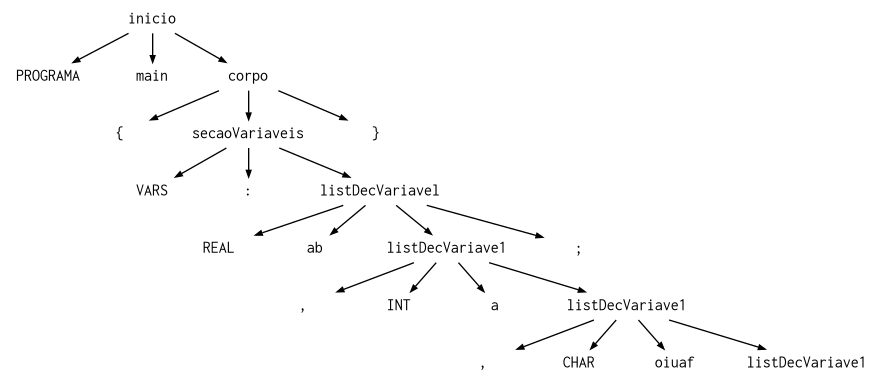
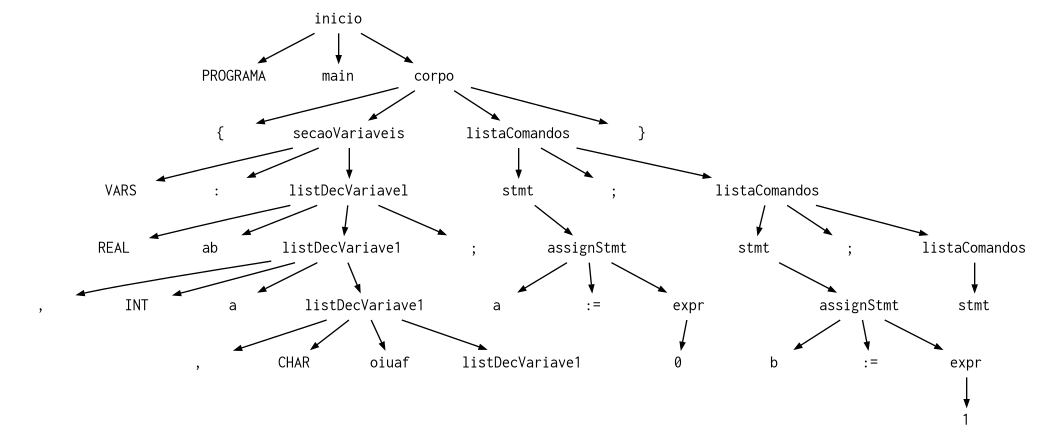
parser funcionando com assingment_stmt

diff --git a/front-end/parser.py b/front-end/parser.py
@@ -42,8 +42,7 @@ class Parser:
 
     def inicio(self):
         """
-        mas ignorando o corpo agora só para testar
-        inicio: PROGRAMA ID ;
+        inicio: PROGRAMA ID corpo;
         """
         node = RuleNode('inicio')
         if self.root is None:
@@ -63,6 +62,9 @@ class Parser:
 
 
     def corpo(self):
+        """
+        corpo:  AbreChave secaoVariaveis listaComandos  FechaChave; 
+        """
         node = RuleNode('corpo')
         if self.root is None:
             self.root = node
@@ -76,10 +78,15 @@ class Parser:
         if token.type == AbreChave:
             self.eat(AbreChave)
             self.secaoVariaveis()
+            self.listaComandos()
             self.eat(FechaChave)
         self.current_node = _save
 
     def secaoVariaveis(self):
+        """
+        secaoVariaveis: VARS Doispontos  listDecVariavel  PVirg;
+        """
+
         node = RuleNode('secaoVariaveis')
         if self.root is None:
             self.root = node
@@ -92,12 +99,6 @@ class Parser:
         token = self.current_token
         self.eat(VARS)
         self.eat(DoisPontos)
-        # while True:
-        #     if self.current_token.type in (INT,REAL,CHAR):
-        #         self.eat(self.current_token.type)
-        #         self.eat(ID)
-        #         if self.current_token.type == PVirg:
-        #             break
         self.listDecVariavel()
         self.eat(PVirg)
         self.current_node = _save
@@ -109,21 +110,14 @@ class Parser:
         else:
             self.current_node.add(node)
             
-        _save = self.current_node
         self.current_node = node
-
 
         token = self.current_token
         if token.type in (INT,REAL,CHAR):
             self.eat(token.type)
             self.eat(ID)
             self.listDecVariavel1()
-        # while True:
-        #     if self.current_token.type in (INT,REAL,CHAR):
-        #         self.eat(self.current_token.type)
-        #         self.eat(ID)
-        #         if self.current_token.type == PVirg:
-        #             break
+
 
     def listDecVariavel1(self):
         node = RuleNode('listDecVariave1')
@@ -144,6 +138,68 @@ class Parser:
         else: 
             self.current_node = _save
 
+    def listaComandos(self):
+        """
+        listaComandos:  stmt | stmt PVirg listaComandos;
+        """
+        node = RuleNode('listaComandos')
+        self.current_node.add(node)
+        _save = self.current_node
+        self.current_node = node
+        self.stmt()        
+        if self.current_token.type == PVirg:
+            self.eat(PVirg)
+            self.listaComandos()
+            self.current_node = _save
+        else: 
+            self.current_node = _save
+
+
+    def stmt(self):
+        """
+        stmt: assign_stmt | //vazio
+        """
+        node = RuleNode('stmt')
+        self.current_node.add(node)
+        _save = self.current_node
+        self.current_node = node 
+
+        if self.current_token.type in (ID,FACA,SE,ENQUANTO):
+            token = self.current_token
+            if token.type == ID:
+                self.assign_stmt()
+                self.current_node = _save
+
+        else: 
+            self.current_node = _save
+
+    
+    def assign_stmt(self):
+        """
+        assign_stmt: ID OpAtrib expr
+        """
+
+        node = RuleNode('assignStmt')
+        self.current_node.add(node)
+        _save = self.current_node
+        self.current_node = node
+
+        self.eat(ID)
+        self.eat(opAtribuicao)
+        self.expr()
+        self.current_node = _save
+
+    
+    def expr(self):
+        """
+        expr: ConstInt
+        """
+        node = RuleNode('expr')
+        self.current_node.add(node)
+        _save = self.current_node
+        self.current_node = node
+        self.eat(ConstInt)
+        self.current_node = node
 
 
     def parse(self):

diff --git a/front-end/tokens.py b/front-end/tokens.py
@@ -1,4 +1,4 @@
-VARS, DoisPontos,PROGRAMA, SE, ENTAO, SENAO, ENQUANTO, FACA, INT, REAL, CHAR, OR, AND, NOT,ID, PVirg, AbreChave, EOF, FechaChave, VIRG= (
+VARS, DoisPontos,PROGRAMA, SE, ENTAO, SENAO, ENQUANTO, FACA, INT, REAL, CHAR, OR, AND, NOT,ID, PVirg, AbreChave, EOF, FechaChave, VIRG, opAtribuicao, ConstInt= (
     'VARS',
     'DoisPontos',
     'PROGRAMA',
@@ -18,5 +18,7 @@ VARS, DoisPontos,PROGRAMA, SE, ENTAO, SENAO, ENQUANTO, FACA, INT, REAL, CHAR, OR
     'AbreChave',
     'EOF',
     'FechaChave',
-    'VIRG'
+    'VIRG',
+    'opAtribuicao',
+    'ConstInt'
     )
